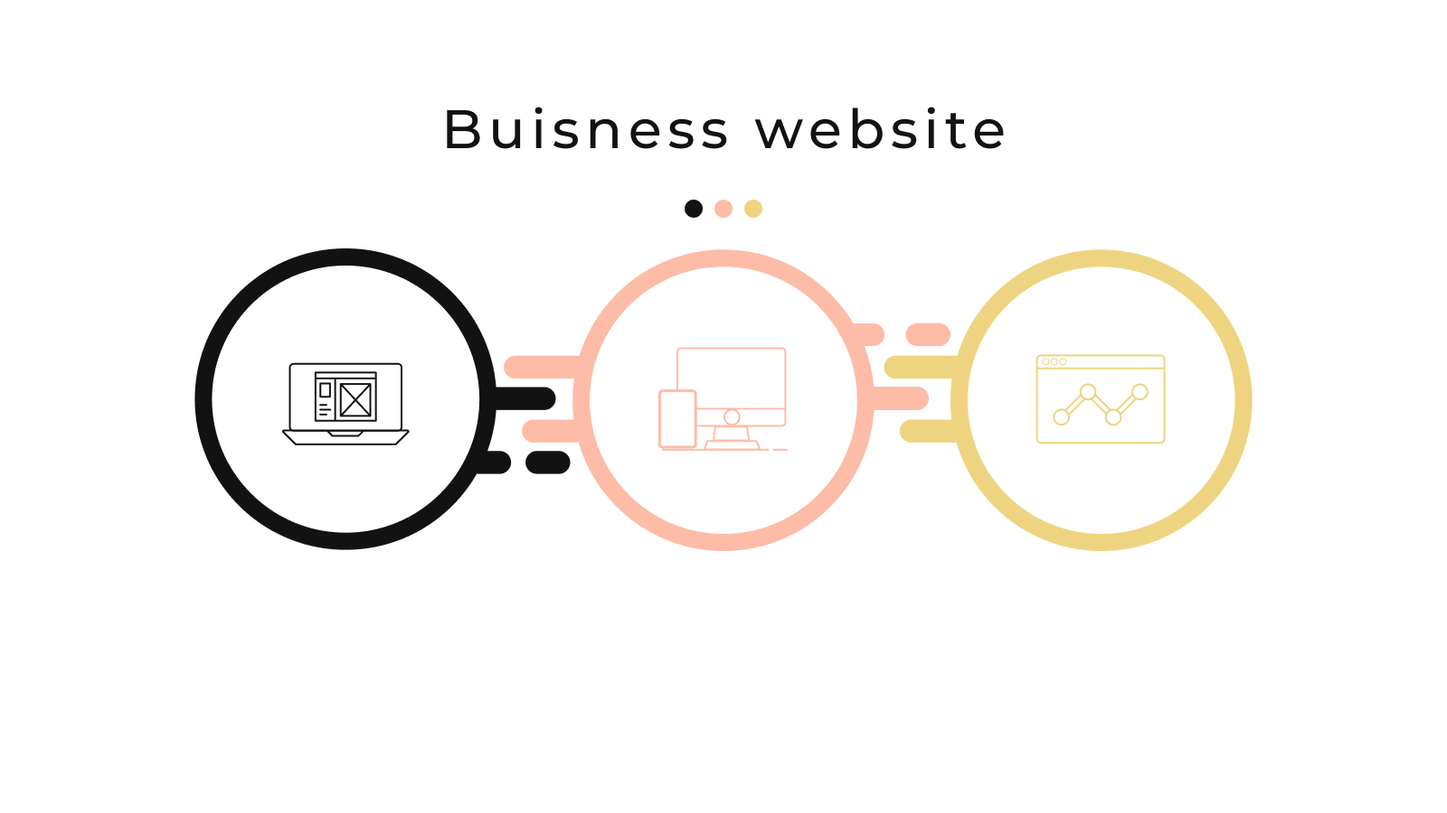
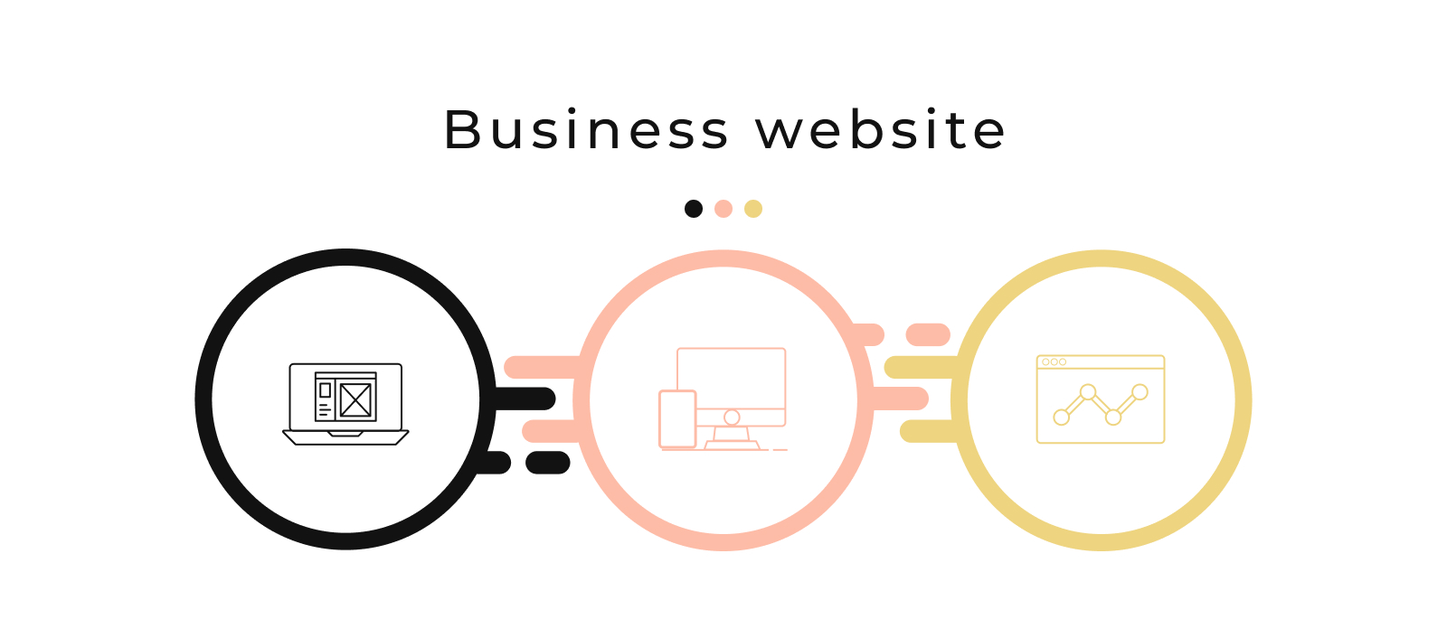
fix images

diff --git a/business.html b/business.html
@@ -270,90 +270,64 @@
               </g>
             </svg>
           </div>
+          
           <div class="business-heroimage__mobile">
+            
             <svg width="375" height="600" viewBox="0 0 375 600" fill="none" xmlns="http://www.w3.org/2000/svg">
-              <rect width="1205.67" height="600" transform="translate(-415)" fill="white" />
-              <path class="bh-text"
-                d="M77.0474 58.3815C78.0234 58.6535 78.7914 59.1495 79.3514 59.8695C79.9114 60.5735 80.1914 61.4695 80.1914 62.5575C80.1914 64.0135 79.6394 65.1335 78.5354 65.9175C77.4474 66.7015 75.8554 67.0935 73.7594 67.0935H65.7434V50.2935H73.2794C75.1994 50.2935 76.6794 50.6775 77.7194 51.4455C78.7754 52.2135 79.3034 53.2775 79.3034 54.6375C79.3034 55.5175 79.0954 56.2775 78.6794 56.9175C78.2794 57.5575 77.7354 58.0455 77.0474 58.3815ZM68.1434 52.2375V57.6135H73.0634C74.2954 57.6135 75.2394 57.3895 75.8954 56.9415C76.5674 56.4775 76.9034 55.8055 76.9034 54.9255C76.9034 54.0455 76.5674 53.3815 75.8954 52.9335C75.2394 52.4695 74.2954 52.2375 73.0634 52.2375H68.1434ZM73.6634 65.1495C75.0234 65.1495 76.0474 64.9255 76.7354 64.4775C77.4234 64.0295 77.7674 63.3255 77.7674 62.3655C77.7674 60.4935 76.3994 59.5575 73.6634 59.5575H68.1434V65.1495H73.6634ZM98.0675 54.3735V67.0935H95.8835V65.1735C95.4195 65.8295 94.8035 66.3415 94.0355 66.7095C93.2835 67.0615 92.4595 67.2375 91.5635 67.2375C89.8675 67.2375 88.5315 66.7735 87.5555 65.8455C86.5795 64.9015 86.0915 63.5175 86.0915 61.6935V54.3735H88.3955V61.4295C88.3955 62.6615 88.6915 63.5975 89.2835 64.2375C89.8755 64.8615 90.7235 65.1735 91.8275 65.1735C93.0435 65.1735 94.0035 64.8055 94.7075 64.0695C95.4115 63.3335 95.7635 62.2935 95.7635 60.9495V54.3735H98.0675ZM105.094 54.3735H107.398V67.0935H105.094V54.3735ZM106.246 51.9255C105.798 51.9255 105.422 51.7815 105.118 51.4935C104.83 51.2055 104.686 50.8535 104.686 50.4375C104.686 50.0215 104.83 49.6695 105.118 49.3815C105.422 49.0775 105.798 48.9255 106.246 48.9255C106.694 48.9255 107.062 49.0695 107.35 49.3575C107.654 49.6295 107.806 49.9735 107.806 50.3895C107.806 50.8215 107.654 51.1895 107.35 51.4935C107.062 51.7815 106.694 51.9255 106.246 51.9255ZM118.085 67.2375C117.045 67.2375 116.045 67.1015 115.085 66.8295C114.125 66.5415 113.373 66.1815 112.829 65.7495L113.789 63.9255C114.349 64.3255 115.029 64.6455 115.829 64.8855C116.629 65.1255 117.437 65.2455 118.253 65.2455C120.269 65.2455 121.277 64.6695 121.277 63.5175C121.277 63.1335 121.141 62.8295 120.869 62.6055C120.597 62.3815 120.253 62.2215 119.837 62.1255C119.437 62.0135 118.861 61.8935 118.109 61.7655C117.085 61.6055 116.245 61.4215 115.589 61.2135C114.949 61.0055 114.397 60.6535 113.933 60.1575C113.469 59.6615 113.237 58.9655 113.237 58.0695C113.237 56.9175 113.717 55.9975 114.677 55.3095C115.637 54.6055 116.925 54.2535 118.541 54.2535C119.389 54.2535 120.237 54.3575 121.085 54.5655C121.933 54.7735 122.629 55.0535 123.173 55.4055L122.189 57.2295C121.149 56.5575 119.925 56.2215 118.517 56.2215C117.541 56.2215 116.797 56.3815 116.285 56.7015C115.773 57.0215 115.517 57.4455 115.517 57.9735C115.517 58.3895 115.661 58.7175 115.949 58.9575C116.237 59.1975 116.589 59.3735 117.005 59.4855C117.437 59.5975 118.037 59.7255 118.805 59.8695C119.829 60.0455 120.653 60.2375 121.277 60.4455C121.917 60.6375 122.461 60.9735 122.909 61.4535C123.357 61.9335 123.581 62.6055 123.581 63.4695C123.581 64.6215 123.085 65.5415 122.093 66.2295C121.117 66.9015 119.781 67.2375 118.085 67.2375ZM135.892 54.2535C137.508 54.2535 138.788 54.7255 139.732 55.6695C140.692 56.5975 141.172 57.9655 141.172 59.7735V67.0935H138.868V60.0375C138.868 58.8055 138.572 57.8775 137.98 57.2535C137.388 56.6295 136.54 56.3175 135.436 56.3175C134.188 56.3175 133.204 56.6855 132.484 57.4215C131.764 58.1415 131.404 59.1815 131.404 60.5415V67.0935H129.1V54.3735H131.308V56.2935C131.772 55.6375 132.396 55.1335 133.18 54.7815C133.98 54.4295 134.884 54.2535 135.892 54.2535ZM159.642 60.8055C159.642 60.9815 159.626 61.2135 159.594 61.5015H149.274C149.418 62.6215 149.906 63.5255 150.738 64.2135C151.586 64.8855 152.634 65.2215 153.882 65.2215C155.402 65.2215 156.626 64.7095 157.554 63.6855L158.826 65.1735C158.25 65.8455 157.53 66.3575 156.666 66.7095C155.818 67.0615 154.866 67.2375 153.81 67.2375C152.466 67.2375 151.274 66.9655 150.234 66.4215C149.194 65.8615 148.386 65.0855 147.81 64.0935C147.25 63.1015 146.97 61.9815 146.97 60.7335C146.97 59.5015 147.242 58.3895 147.786 57.3975C148.346 56.4055 149.106 55.6375 150.066 55.0935C151.042 54.5335 152.138 54.2535 153.354 54.2535C154.57 54.2535 155.65 54.5335 156.594 55.0935C157.554 55.6375 158.298 56.4055 158.826 57.3975C159.37 58.3895 159.642 59.5255 159.642 60.8055ZM153.354 56.1975C152.25 56.1975 151.322 56.5335 150.57 57.2055C149.834 57.8775 149.402 58.7575 149.274 59.8455H157.434C157.306 58.7735 156.866 57.9015 156.114 57.2295C155.378 56.5415 154.458 56.1975 153.354 56.1975ZM169.13 67.2375C168.09 67.2375 167.09 67.1015 166.13 66.8295C165.17 66.5415 164.418 66.1815 163.874 65.7495L164.834 63.9255C165.394 64.3255 166.074 64.6455 166.874 64.8855C167.674 65.1255 168.482 65.2455 169.298 65.2455C171.314 65.2455 172.322 64.6695 172.322 63.5175C172.322 63.1335 172.186 62.8295 171.914 62.6055C171.642 62.3815 171.298 62.2215 170.882 62.1255C170.482 62.0135 169.906 61.8935 169.154 61.7655C168.13 61.6055 167.29 61.4215 166.634 61.2135C165.994 61.0055 165.442 60.6535 164.978 60.1575C164.514 59.6615 164.282 58.9655 164.282 58.0695C164.282 56.9175 164.762 55.9975 165.722 55.3095C166.682 54.6055 167.97 54.2535 169.586 54.2535C170.434 54.2535 171.282 54.3575 172.13 54.5655C172.978 54.7735 173.674 55.0535 174.218 55.4055L173.234 57.2295C172.194 56.5575 170.97 56.2215 169.562 56.2215C168.586 56.2215 167.842 56.3815 167.33 56.7015C166.818 57.0215 166.562 57.4455 166.562 57.9735C166.562 58.3895 166.706 58.7175 166.994 58.9575C167.282 59.1975 167.634 59.3735 168.05 59.4855C168.482 59.5975 169.082 59.7255 169.85 59.8695C170.874 60.0455 171.698 60.2375 172.322 60.4455C172.962 60.6375 173.506 60.9735 173.954 61.4535C174.402 61.9335 174.626 62.6055 174.626 63.4695C174.626 64.6215 174.13 65.5415 173.138 66.2295C172.162 66.9015 170.826 67.2375 169.13 67.2375ZM183.793 67.2375C182.753 67.2375 181.753 67.1015 180.793 66.8295C179.833 66.5415 179.081 66.1815 178.537 65.7495L179.497 63.9255C180.057 64.3255 180.737 64.6455 181.537 64.8855C182.337 65.1255 183.145 65.2455 183.961 65.2455C185.977 65.2455 186.985 64.6695 186.985 63.5175C186.985 63.1335 186.849 62.8295 186.577 62.6055C186.305 62.3815 185.961 62.2215 185.545 62.1255C185.145 62.0135 184.569 61.8935 183.817 61.7655C182.793 61.6055 181.953 61.4215 181.297 61.2135C180.657 61.0055 180.105 60.6535 179.641 60.1575C179.177 59.6615 178.945 58.9655 178.945 58.0695C178.945 56.9175 179.425 55.9975 180.385 55.3095C181.345 54.6055 182.633 54.2535 184.249 54.2535C185.097 54.2535 185.945 54.3575 186.793 54.5655C187.641 54.7735 188.337 55.0535 188.881 55.4055L187.897 57.2295C186.857 56.5575 185.633 56.2215 184.225 56.2215C183.249 56.2215 182.505 56.3815 181.993 56.7015C181.481 57.0215 181.225 57.4455 181.225 57.9735C181.225 58.3895 181.369 58.7175 181.657 58.9575C181.945 59.1975 182.297 59.3735 182.713 59.4855C183.145 59.5975 183.745 59.7255 184.513 59.8695C185.537 60.0455 186.361 60.2375 186.985 60.4455C187.625 60.6375 188.169 60.9735 188.617 61.4535C189.065 61.9335 189.289 62.6055 189.289 63.4695C189.289 64.6215 188.793 65.5415 187.801 66.2295C186.825 66.9015 185.489 67.2375 183.793 67.2375ZM223.142 54.3735L218.39 67.0935H216.182L212.51 57.4455L208.79 67.0935H206.582L201.854 54.3735H204.038L207.734 64.5015L211.574 54.3735L213.518 54.3735L217.286 64.5495L221.078 54.3735H223.142ZM239.264 60.8055C239.264 60.9815 239.248 61.2135 239.216 61.5015H228.896C229.04 62.6215 229.528 63.5255 230.36 64.2135C231.208 64.8855 232.256 65.2215 233.504 65.2215C235.024 65.2215 236.248 64.7095 237.176 63.6855L238.448 65.1735C237.872 65.8455 237.152 66.3575 236.288 66.7095C235.44 67.0615 234.488 67.2375 233.432 67.2375C232.088 67.2375 230.896 66.9655 229.856 66.4215C228.816 65.8615 228.008 65.0855 227.432 64.0935C226.872 63.1015 226.592 61.9815 226.592 60.7335C226.592 59.5015 226.864 58.3895 227.408 57.3975C227.968 56.4055 228.728 55.6375 229.688 55.0935C230.664 54.5335 231.76 54.2535 232.976 54.2535C234.192 54.2535 235.272 54.5335 236.216 55.0935C237.176 55.6375 237.92 56.4055 238.448 57.3975C238.992 58.3895 239.264 59.5255 239.264 60.8055ZM232.976 56.1975C231.872 56.1975 230.944 56.5335 230.192 57.2055C229.456 57.8775 229.024 58.7575 228.896 59.8455H237.056C236.928 58.7735 236.488 57.9015 235.736 57.2295C235 56.5415 234.08 56.1975 232.976 56.1975ZM251.848 54.2535C253.08 54.2535 254.184 54.5255 255.16 55.0695C256.136 55.6135 256.896 56.3735 257.44 57.3495C258 58.3255 258.28 59.4535 258.28 60.7335C258.28 62.0135 258 63.1495 257.44 64.1415C256.896 65.1175 256.136 65.8775 255.16 66.4215C254.184 66.9655 253.08 67.2375 251.848 67.2375C250.904 67.2375 250.04 67.0535 249.256 66.6855C248.472 66.3175 247.824 65.7815 247.312 65.0775V67.0935H245.104V49.2855H247.408V56.2935C247.92 55.6215 248.56 55.1175 249.328 54.7815C250.096 54.4295 250.936 54.2535 251.848 54.2535ZM251.656 65.2215C252.472 65.2215 253.2 65.0375 253.84 64.6695C254.496 64.2855 255.008 63.7575 255.376 63.0855C255.76 62.3975 255.952 61.6135 255.952 60.7335C255.952 59.8535 255.76 59.0775 255.376 58.4055C255.008 57.7175 254.496 57.1895 253.84 56.8215C253.2 56.4535 252.472 56.2695 251.656 56.2695C250.856 56.2695 250.128 56.4535 249.472 56.8215C248.816 57.1895 248.304 57.7175 247.936 58.4055C247.568 59.0775 247.384 59.8535 247.384 60.7335C247.384 61.6135 247.568 62.3975 247.936 63.0855C248.304 63.7575 248.816 64.2855 249.472 64.6695C250.128 65.0375 250.856 65.2215 251.656 65.2215ZM267.751 67.2375C266.711 67.2375 265.711 67.1015 264.751 66.8295C263.791 66.5415 263.039 66.1815 262.495 65.7495L263.455 63.9255C264.015 64.3255 264.695 64.6455 265.495 64.8855C266.295 65.1255 267.103 65.2455 267.919 65.2455C269.935 65.2455 270.943 64.6695 270.943 63.5175C270.943 63.1335 270.807 62.8295 270.535 62.6055C270.263 62.3815 269.919 62.2215 269.503 62.1255C269.103 62.0135 268.527 61.8935 267.775 61.7655C266.751 61.6055 265.911 61.4215 265.255 61.2135C264.615 61.0055 264.063 60.6535 263.599 60.1575C263.135 59.6615 262.903 58.9655 262.903 58.0695C262.903 56.9175 263.383 55.9975 264.343 55.3095C265.303 54.6055 266.591 54.2535 268.207 54.2535C269.055 54.2535 269.903 54.3575 270.751 54.5655C271.599 54.7735 272.295 55.0535 272.839 55.4055L271.855 57.2295C270.815 56.5575 269.591 56.2215 268.183 56.2215C267.207 56.2215 266.463 56.3815 265.951 56.7015C265.439 57.0215 265.183 57.4455 265.183 57.9735C265.183 58.3895 265.327 58.7175 265.615 58.9575C265.903 59.1975 266.255 59.3735 266.671 59.4855C267.103 59.5975 267.703 59.7255 268.471 59.8695C269.495 60.0455 270.319 60.2375 270.943 60.4455C271.583 60.6375 272.127 60.9735 272.575 61.4535C273.023 61.9335 273.247 62.6055 273.247 63.4695C273.247 64.6215 272.751 65.5415 271.759 66.2295C270.783 66.9015 269.447 67.2375 267.751 67.2375ZM278.767 54.3735H281.071V67.0935H278.767V54.3735ZM279.919 51.9255C279.471 51.9255 279.095 51.7815 278.791 51.4935C278.503 51.2055 278.359 50.8535 278.359 50.4375C278.359 50.0215 278.503 49.6695 278.791 49.3815C279.095 49.0775 279.471 48.9255 279.919 48.9255C280.367 48.9255 280.735 49.0695 281.023 49.3575C281.327 49.6295 281.479 49.9735 281.479 50.3895C281.479 50.8215 281.327 51.1895 281.023 51.4935C280.735 51.7815 280.367 51.9255 279.919 51.9255ZM295.262 66.3495C294.926 66.6375 294.51 66.8615 294.014 67.0215C293.518 67.1655 293.006 67.2375 292.478 67.2375C291.198 67.2375 290.206 66.8935 289.502 66.2055C288.798 65.5175 288.446 64.5335 288.446 63.2535V56.2695H286.286V54.3735H288.446V51.5895H290.75V54.3735H294.398V56.2695H290.75V63.1575C290.75 63.8455 290.918 64.3735 291.254 64.7415C291.606 65.1095 292.102 65.2935 292.742 65.2935C293.446 65.2935 294.046 65.0935 294.542 64.6935L295.262 66.3495ZM311.761 60.8055C311.761 60.9815 311.745 61.2135 311.713 61.5015H301.393C301.537 62.6215 302.025 63.5255 302.857 64.2135C303.705 64.8855 304.753 65.2215 306.001 65.2215C307.521 65.2215 308.745 64.7095 309.673 63.6855L310.945 65.1735C310.369 65.8455 309.649 66.3575 308.785 66.7095C307.937 67.0615 306.985 67.2375 305.929 67.2375C304.585 67.2375 303.393 66.9655 302.353 66.4215C301.313 65.8615 300.505 65.0855 299.929 64.0935C299.369 63.1015 299.089 61.9815 299.089 60.7335C299.089 59.5015 299.361 58.3895 299.905 57.3975C300.465 56.4055 301.225 55.6375 302.185 55.0935C303.161 54.5335 304.257 54.2535 305.473 54.2535C306.689 54.2535 307.769 54.5335 308.713 55.0935C309.673 55.6375 310.417 56.4055 310.945 57.3975C311.489 58.3895 311.761 59.5255 311.761 60.8055ZM305.473 56.1975C304.369 56.1975 303.441 56.5335 302.689 57.2055C301.953 57.8775 301.521 58.7575 301.393 59.8455H309.553C309.425 58.7735 308.985 57.9015 308.233 57.2295C307.497 56.5415 306.577 56.1975 305.473 56.1975Z"
-                fill="#121212" />
-              <circle class="bh-circle1" cx="162.965" cy="97.5354" r="7.53541" fill="#121212" />
-              <circle class="bh-circle2" cx="187.832" cy="97.5354" r="7.53541" fill="#FDBCA7" />
-              <circle class="bh-circle3" cx="212.699" cy="97.5354" r="7.53541" fill="#EED480" />
+              <rect width="1205.67" height="600" transform="translate(-415)" fill="white"/>
+              <path class="bh-text" d="M65.7786 67.0935V50.2935H73.3146C75.2506 50.2935 76.7386 50.6855 77.7786 51.4695C78.8186 52.2375 79.3386 53.2935 79.3386 54.6375C79.3386 55.5495 79.1306 56.3175 78.7146 56.9415C78.3146 57.5655 77.7706 58.0455 77.0826 58.3815C76.3946 58.7175 75.6506 58.8855 74.8506 58.8855L75.2826 58.1655C76.2426 58.1655 77.0906 58.3335 77.8266 58.6695C78.5626 59.0055 79.1466 59.5015 79.5786 60.1575C80.0106 60.7975 80.2266 61.5975 80.2266 62.5575C80.2266 63.9975 79.6826 65.1175 78.5946 65.9175C77.5226 66.7015 75.9226 67.0935 73.7946 67.0935H65.7786ZM68.1786 65.1495H73.6986C75.0266 65.1495 76.0426 64.9255 76.7466 64.4775C77.4506 64.0295 77.8026 63.3255 77.8026 62.3655C77.8026 61.3895 77.4506 60.6775 76.7466 60.2295C76.0426 59.7815 75.0266 59.5575 73.6986 59.5575H67.9626V57.6135H73.0986C74.3146 57.6135 75.2586 57.3895 75.9306 56.9415C76.6026 56.4935 76.9386 55.8215 76.9386 54.9255C76.9386 54.0295 76.6026 53.3575 75.9306 52.9095C75.2586 52.4615 74.3146 52.2375 73.0986 52.2375H68.1786V65.1495ZM91.5987 67.2375C90.5107 67.2375 89.5507 67.0375 88.7187 66.6375C87.9027 66.2375 87.2627 65.6295 86.7987 64.8135C86.3507 63.9815 86.1267 62.9415 86.1267 61.6935V54.3735H88.4307V61.4295C88.4307 62.6775 88.7267 63.6135 89.3187 64.2375C89.9267 64.8615 90.7747 65.1735 91.8627 65.1735C92.6627 65.1735 93.3587 65.0135 93.9507 64.6935C94.5427 64.3575 94.9987 63.8775 95.3187 63.2535C95.6387 62.6135 95.7987 61.8455 95.7987 60.9495V54.3735H98.1027V67.0935H95.9187V63.6615L96.2787 64.5735C95.8627 65.4215 95.2387 66.0775 94.4067 66.5415C93.5747 67.0055 92.6387 67.2375 91.5987 67.2375ZM108.777 67.2375C107.721 67.2375 106.713 67.0935 105.753 66.8055C104.809 66.5175 104.065 66.1655 103.521 65.7495L104.481 63.9255C105.025 64.2935 105.697 64.6055 106.497 64.8615C107.297 65.1175 108.113 65.2455 108.945 65.2455C110.017 65.2455 110.785 65.0935 111.249 64.7895C111.729 64.4855 111.969 64.0615 111.969 63.5175C111.969 63.1175 111.825 62.8055 111.537 62.5815C111.249 62.3575 110.865 62.1895 110.385 62.0775C109.921 61.9655 109.401 61.8695 108.825 61.7895C108.249 61.6935 107.673 61.5815 107.097 61.4535C106.521 61.3095 105.993 61.1175 105.513 60.8775C105.033 60.6215 104.649 60.2775 104.361 59.8455C104.073 59.3975 103.929 58.8055 103.929 58.0695C103.929 57.3015 104.145 56.6295 104.577 56.0535C105.009 55.4775 105.617 55.0375 106.401 54.7335C107.201 54.4135 108.145 54.2535 109.233 54.2535C110.065 54.2535 110.905 54.3575 111.753 54.5655C112.617 54.7575 113.321 55.0375 113.865 55.4055L112.881 57.2295C112.305 56.8455 111.705 56.5815 111.081 56.4375C110.457 56.2935 109.833 56.2215 109.209 56.2215C108.201 56.2215 107.449 56.3895 106.953 56.7255C106.457 57.0455 106.209 57.4615 106.209 57.9735C106.209 58.4055 106.353 58.7415 106.641 58.9815C106.945 59.2055 107.329 59.3815 107.793 59.5095C108.273 59.6375 108.801 59.7495 109.377 59.8455C109.953 59.9255 110.529 60.0375 111.105 60.1815C111.681 60.3095 112.201 60.4935 112.665 60.7335C113.145 60.9735 113.529 61.3095 113.817 61.7415C114.121 62.1735 114.273 62.7495 114.273 63.4695C114.273 64.2375 114.049 64.9015 113.601 65.4615C113.153 66.0215 112.521 66.4615 111.705 66.7815C110.889 67.0855 109.913 67.2375 108.777 67.2375ZM119.792 67.0935V54.3735H122.096V67.0935H119.792ZM120.944 51.9255C120.496 51.9255 120.12 51.7815 119.816 51.4935C119.528 51.2055 119.384 50.8535 119.384 50.4375C119.384 50.0055 119.528 49.6455 119.816 49.3575C120.12 49.0695 120.496 48.9255 120.944 48.9255C121.392 48.9255 121.76 49.0695 122.048 49.3575C122.352 49.6295 122.504 49.9735 122.504 50.3895C122.504 50.8215 122.36 51.1895 122.072 51.4935C121.784 51.7815 121.408 51.9255 120.944 51.9255ZM135.927 54.2535C136.967 54.2535 137.879 54.4535 138.663 54.8535C139.463 55.2535 140.087 55.8615 140.535 56.6775C140.983 57.4935 141.207 58.5255 141.207 59.7735V67.0935H138.903V60.0375C138.903 58.8055 138.599 57.8775 137.991 57.2535C137.399 56.6295 136.559 56.3175 135.471 56.3175C134.655 56.3175 133.943 56.4775 133.335 56.7975C132.727 57.1175 132.255 57.5895 131.919 58.2135C131.599 58.8375 131.439 59.6135 131.439 60.5415V67.0935H129.135V54.3735H131.343V57.8055L130.983 56.8935C131.399 56.0615 132.039 55.4135 132.903 54.9495C133.767 54.4855 134.775 54.2535 135.927 54.2535ZM153.775 67.2375C152.415 67.2375 151.215 66.9575 150.175 66.3975C149.151 65.8375 148.351 65.0695 147.775 64.0935C147.215 63.1175 146.935 61.9975 146.935 60.7335C146.935 59.4695 147.207 58.3495 147.751 57.3735C148.311 56.3975 149.071 55.6375 150.031 55.0935C151.007 54.5335 152.103 54.2535 153.319 54.2535C154.551 54.2535 155.639 54.5255 156.583 55.0695C157.527 55.6135 158.263 56.3815 158.791 57.3735C159.335 58.3495 159.607 59.4935 159.607 60.8055C159.607 60.9015 159.599 61.0135 159.583 61.1415C159.583 61.2695 159.575 61.3895 159.559 61.5015H148.735V59.8455H158.359L157.423 60.4215C157.439 59.6055 157.271 58.8775 156.919 58.2375C156.567 57.5975 156.079 57.1015 155.455 56.7495C154.847 56.3815 154.135 56.1975 153.319 56.1975C152.519 56.1975 151.807 56.3815 151.183 56.7495C150.559 57.1015 150.071 57.6055 149.719 58.2615C149.367 58.9015 149.191 59.6375 149.191 60.4695V60.8535C149.191 61.7015 149.383 62.4615 149.767 63.1335C150.167 63.7895 150.719 64.3015 151.423 64.6695C152.127 65.0375 152.935 65.2215 153.847 65.2215C154.599 65.2215 155.279 65.0935 155.887 64.8375C156.511 64.5815 157.055 64.1975 157.519 63.6855L158.791 65.1735C158.215 65.8455 157.495 66.3575 156.631 66.7095C155.783 67.0615 154.831 67.2375 153.775 67.2375ZM169.095 67.2375C168.039 67.2375 167.031 67.0935 166.071 66.8055C165.127 66.5175 164.383 66.1655 163.839 65.7495L164.799 63.9255C165.343 64.2935 166.015 64.6055 166.815 64.8615C167.615 65.1175 168.431 65.2455 169.263 65.2455C170.335 65.2455 171.103 65.0935 171.567 64.7895C172.047 64.4855 172.287 64.0615 172.287 63.5175C172.287 63.1175 172.143 62.8055 171.855 62.5815C171.567 62.3575 171.183 62.1895 170.703 62.0775C170.239 61.9655 169.719 61.8695 169.143 61.7895C168.567 61.6935 167.991 61.5815 167.415 61.4535C166.839 61.3095 166.311 61.1175 165.831 60.8775C165.351 60.6215 164.967 60.2775 164.679 59.8455C164.391 59.3975 164.247 58.8055 164.247 58.0695C164.247 57.3015 164.463 56.6295 164.895 56.0535C165.327 55.4775 165.935 55.0375 166.719 54.7335C167.519 54.4135 168.463 54.2535 169.551 54.2535C170.383 54.2535 171.223 54.3575 172.071 54.5655C172.935 54.7575 173.639 55.0375 174.183 55.4055L173.199 57.2295C172.623 56.8455 172.023 56.5815 171.399 56.4375C170.775 56.2935 170.151 56.2215 169.527 56.2215C168.519 56.2215 167.767 56.3895 167.271 56.7255C166.775 57.0455 166.527 57.4615 166.527 57.9735C166.527 58.4055 166.671 58.7415 166.959 58.9815C167.263 59.2055 167.647 59.3815 168.111 59.5095C168.591 59.6375 169.119 59.7495 169.695 59.8455C170.271 59.9255 170.847 60.0375 171.423 60.1815C171.999 60.3095 172.519 60.4935 172.983 60.7335C173.463 60.9735 173.847 61.3095 174.135 61.7415C174.439 62.1735 174.591 62.7495 174.591 63.4695C174.591 64.2375 174.367 64.9015 173.919 65.4615C173.471 66.0215 172.839 66.4615 172.023 66.7815C171.207 67.0855 170.231 67.2375 169.095 67.2375ZM183.758 67.2375C182.702 67.2375 181.694 67.0935 180.734 66.8055C179.79 66.5175 179.046 66.1655 178.502 65.7495L179.462 63.9255C180.006 64.2935 180.678 64.6055 181.478 64.8615C182.278 65.1175 183.094 65.2455 183.926 65.2455C184.998 65.2455 185.766 65.0935 186.23 64.7895C186.71 64.4855 186.95 64.0615 186.95 63.5175C186.95 63.1175 186.806 62.8055 186.518 62.5815C186.23 62.3575 185.846 62.1895 185.366 62.0775C184.902 61.9655 184.382 61.8695 183.806 61.7895C183.23 61.6935 182.654 61.5815 182.078 61.4535C181.502 61.3095 180.974 61.1175 180.494 60.8775C180.014 60.6215 179.63 60.2775 179.342 59.8455C179.054 59.3975 178.91 58.8055 178.91 58.0695C178.91 57.3015 179.126 56.6295 179.558 56.0535C179.99 55.4775 180.598 55.0375 181.382 54.7335C182.182 54.4135 183.126 54.2535 184.214 54.2535C185.046 54.2535 185.886 54.3575 186.734 54.5655C187.598 54.7575 188.302 55.0375 188.846 55.4055L187.862 57.2295C187.286 56.8455 186.686 56.5815 186.062 56.4375C185.438 56.2935 184.814 56.2215 184.19 56.2215C183.182 56.2215 182.43 56.3895 181.934 56.7255C181.438 57.0455 181.19 57.4615 181.19 57.9735C181.19 58.4055 181.334 58.7415 181.622 58.9815C181.926 59.2055 182.31 59.3815 182.774 59.5095C183.254 59.6375 183.782 59.7495 184.358 59.8455C184.934 59.9255 185.51 60.0375 186.086 60.1815C186.662 60.3095 187.182 60.4935 187.646 60.7335C188.126 60.9735 188.51 61.3095 188.798 61.7415C189.102 62.1735 189.254 62.7495 189.254 63.4695C189.254 64.2375 189.03 64.9015 188.582 65.4615C188.134 66.0215 187.502 66.4615 186.686 66.7815C185.87 67.0855 184.894 67.2375 183.758 67.2375ZM206.547 67.0935L201.819 54.3735H204.003L208.203 65.8935H207.171L211.539 54.3735L213.483 54.3735L217.755 65.8935H216.747L221.043 54.3735H223.107L218.355 67.0935H216.147L212.139 56.5815H212.811L208.755 67.0935H206.547ZM233.397 67.2375C232.037 67.2375 230.837 66.9575 229.797 66.3975C228.773 65.8375 227.973 65.0695 227.397 64.0935C226.837 63.1175 226.557 61.9975 226.557 60.7335C226.557 59.4695 226.829 58.3495 227.373 57.3735C227.933 56.3975 228.693 55.6375 229.653 55.0935C230.629 54.5335 231.725 54.2535 232.941 54.2535C234.173 54.2535 235.261 54.5255 236.205 55.0695C237.149 55.6135 237.885 56.3815 238.413 57.3735C238.957 58.3495 239.229 59.4935 239.229 60.8055C239.229 60.9015 239.221 61.0135 239.205 61.1415C239.205 61.2695 239.197 61.3895 239.181 61.5015H228.357V59.8455H237.981L237.045 60.4215C237.061 59.6055 236.893 58.8775 236.541 58.2375C236.189 57.5975 235.701 57.1015 235.077 56.7495C234.469 56.3815 233.757 56.1975 232.941 56.1975C232.141 56.1975 231.429 56.3815 230.805 56.7495C230.181 57.1015 229.693 57.6055 229.341 58.2615C228.989 58.9015 228.813 59.6375 228.813 60.4695V60.8535C228.813 61.7015 229.005 62.4615 229.389 63.1335C229.789 63.7895 230.341 64.3015 231.045 64.6695C231.749 65.0375 232.557 65.2215 233.469 65.2215C234.221 65.2215 234.901 65.0935 235.509 64.8375C236.133 64.5815 236.677 64.1975 237.141 63.6855L238.413 65.1735C237.837 65.8455 237.117 66.3575 236.253 66.7095C235.405 67.0615 234.453 67.2375 233.397 67.2375ZM251.813 67.2375C250.725 67.2375 249.741 66.9975 248.861 66.5175C247.997 66.0215 247.309 65.2935 246.797 64.3335C246.301 63.3735 246.053 62.1735 246.053 60.7335C246.053 59.2935 246.309 58.0935 246.821 57.1335C247.349 56.1735 248.045 55.4535 248.909 54.9735C249.789 54.4935 250.757 54.2535 251.813 54.2535C253.061 54.2535 254.165 54.5255 255.125 55.0695C256.085 55.6135 256.845 56.3735 257.405 57.3495C257.965 58.3095 258.245 59.4375 258.245 60.7335C258.245 62.0295 257.965 63.1655 257.405 64.1415C256.845 65.1175 256.085 65.8775 255.125 66.4215C254.165 66.9655 253.061 67.2375 251.813 67.2375ZM245.069 67.0935V49.2855H247.373V57.7575L247.133 60.7095L247.277 63.6615V67.0935H245.069ZM251.621 65.2215C252.437 65.2215 253.165 65.0375 253.805 64.6695C254.461 64.3015 254.973 63.7815 255.341 63.1095C255.725 62.4215 255.917 61.6295 255.917 60.7335C255.917 59.8215 255.725 59.0375 255.341 58.3815C254.973 57.7095 254.461 57.1895 253.805 56.8215C253.165 56.4535 252.437 56.2695 251.621 56.2695C250.821 56.2695 250.093 56.4535 249.437 56.8215C248.797 57.1895 248.285 57.7095 247.901 58.3815C247.533 59.0375 247.349 59.8215 247.349 60.7335C247.349 61.6295 247.533 62.4215 247.901 63.1095C248.285 63.7815 248.797 64.3015 249.437 64.6695C250.093 65.0375 250.821 65.2215 251.621 65.2215ZM267.716 67.2375C266.66 67.2375 265.652 67.0935 264.692 66.8055C263.748 66.5175 263.004 66.1655 262.46 65.7495L263.42 63.9255C263.964 64.2935 264.636 64.6055 265.436 64.8615C266.236 65.1175 267.052 65.2455 267.884 65.2455C268.956 65.2455 269.724 65.0935 270.188 64.7895C270.668 64.4855 270.908 64.0615 270.908 63.5175C270.908 63.1175 270.764 62.8055 270.476 62.5815C270.188 62.3575 269.804 62.1895 269.324 62.0775C268.86 61.9655 268.34 61.8695 267.764 61.7895C267.188 61.6935 266.612 61.5815 266.036 61.4535C265.46 61.3095 264.932 61.1175 264.452 60.8775C263.972 60.6215 263.588 60.2775 263.3 59.8455C263.012 59.3975 262.868 58.8055 262.868 58.0695C262.868 57.3015 263.084 56.6295 263.516 56.0535C263.948 55.4775 264.556 55.0375 265.34 54.7335C266.14 54.4135 267.084 54.2535 268.172 54.2535C269.004 54.2535 269.844 54.3575 270.692 54.5655C271.556 54.7575 272.26 55.0375 272.804 55.4055L271.82 57.2295C271.244 56.8455 270.644 56.5815 270.02 56.4375C269.396 56.2935 268.772 56.2215 268.148 56.2215C267.14 56.2215 266.388 56.3895 265.892 56.7255C265.396 57.0455 265.148 57.4615 265.148 57.9735C265.148 58.4055 265.292 58.7415 265.58 58.9815C265.884 59.2055 266.268 59.3815 266.732 59.5095C267.212 59.6375 267.74 59.7495 268.316 59.8455C268.892 59.9255 269.468 60.0375 270.044 60.1815C270.62 60.3095 271.14 60.4935 271.604 60.7335C272.084 60.9735 272.468 61.3095 272.756 61.7415C273.06 62.1735 273.212 62.7495 273.212 63.4695C273.212 64.2375 272.988 64.9015 272.54 65.4615C272.092 66.0215 271.46 66.4615 270.644 66.7815C269.828 67.0855 268.852 67.2375 267.716 67.2375ZM278.731 67.0935V54.3735H281.035V67.0935H278.731ZM279.883 51.9255C279.435 51.9255 279.059 51.7815 278.755 51.4935C278.467 51.2055 278.323 50.8535 278.323 50.4375C278.323 50.0055 278.467 49.6455 278.755 49.3575C279.059 49.0695 279.435 48.9255 279.883 48.9255C280.331 48.9255 280.699 49.0695 280.987 49.3575C281.291 49.6295 281.443 49.9735 281.443 50.3895C281.443 50.8215 281.299 51.1895 281.011 51.4935C280.723 51.7815 280.347 51.9255 279.883 51.9255ZM292.442 67.2375C291.162 67.2375 290.17 66.8935 289.466 66.2055C288.762 65.5175 288.41 64.5335 288.41 63.2535V51.5895H290.714V63.1575C290.714 63.8455 290.882 64.3735 291.218 64.7415C291.57 65.1095 292.066 65.2935 292.706 65.2935C293.426 65.2935 294.026 65.0935 294.506 64.6935L295.226 66.3495C294.874 66.6535 294.45 66.8775 293.954 67.0215C293.474 67.1655 292.97 67.2375 292.442 67.2375ZM286.25 56.2695V54.3735H294.362V56.2695H286.25ZM305.894 67.2375C304.534 67.2375 303.334 66.9575 302.294 66.3975C301.27 65.8375 300.47 65.0695 299.894 64.0935C299.334 63.1175 299.054 61.9975 299.054 60.7335C299.054 59.4695 299.326 58.3495 299.87 57.3735C300.43 56.3975 301.19 55.6375 302.15 55.0935C303.126 54.5335 304.222 54.2535 305.438 54.2535C306.67 54.2535 307.758 54.5255 308.702 55.0695C309.646 55.6135 310.382 56.3815 310.91 57.3735C311.454 58.3495 311.726 59.4935 311.726 60.8055C311.726 60.9015 311.718 61.0135 311.702 61.1415C311.702 61.2695 311.694 61.3895 311.678 61.5015H300.854V59.8455H310.478L309.542 60.4215C309.558 59.6055 309.39 58.8775 309.038 58.2375C308.686 57.5975 308.198 57.1015 307.574 56.7495C306.966 56.3815 306.254 56.1975 305.438 56.1975C304.638 56.1975 303.926 56.3815 303.302 56.7495C302.678 57.1015 302.19 57.6055 301.838 58.2615C301.486 58.9015 301.31 59.6375 301.31 60.4695V60.8535C301.31 61.7015 301.502 62.4615 301.886 63.1335C302.286 63.7895 302.838 64.3015 303.542 64.6695C304.246 65.0375 305.054 65.2215 305.966 65.2215C306.718 65.2215 307.398 65.0935 308.006 64.8375C308.63 64.5815 309.174 64.1975 309.638 63.6855L310.91 65.1735C310.334 65.8455 309.614 66.3575 308.75 66.7095C307.902 67.0615 306.95 67.2375 305.894 67.2375Z" fill="#121212"/>
+              <circle class="bh-circle1" cx="162.965" cy="97.5354" r="7.53541" fill="#121212"/>
+              <circle class="bh-circle2" cx="187.832" cy="97.5354" r="7.53541" fill="#FDBCA7"/>
+              <circle class="bh-circle3" cx="212.699" cy="97.5354" r="7.53541" fill="#EED480"/>
 
               <g class="bh-box1">
-                <rect x="165.84" y="214.002" width="33.9664" height="10.409" rx="5.20452" fill="#121212" />
-                <rect x="159.266" y="243.038" width="20.2702" height="10.409" rx="5.20452" fill="#121212" />
-                <rect x="186.109" y="243.038" width="20.2702" height="10.409" rx="5.20452" fill="#121212" />
-                <circle cx="104.481" cy="219.481" r="61.3219" stroke="#121212" stroke-width="14.3173" />
-                <path d="M90.7852 207.406H118.177V229.318H90.7852V207.406Z" fill="white" />
-                <path d="M92.9688 212.352H97.3515V218.424H92.9688V212.352Z" fill="white" />
-                <path d="M115.672 227.098H102.234V212.633H115.672V220.287V227.098Z" fill="white" />
-                <path
-                  d="M91.3609 210.065H117.695M99.6837 228.971V210.065M90.7812 207.406H118.173V229.318H90.7812V207.406Z"
-                  stroke="#121212" stroke-width="1.50708" stroke-miterlimit="10" stroke-linecap="round"
-                  stroke-linejoin="round" />
-                <path
-                  d="M92.9141 222.099H95.707M92.9141 224.291H97.4656M92.9141 226.482H95.707M102.232 227.098L115.67 212.632M102.232 212.632L115.67 227.098M92.9639 212.352H97.3467V218.424H92.9639V212.352ZM115.67 227.098H102.232V212.632H115.67V220.287V227.098Z"
-                  stroke="#121212" stroke-width="1.50708" stroke-miterlimit="10" stroke-linecap="round"
-                  stroke-linejoin="round" />
-                <rect x="79.484" y="203.799" width="49.9903" height="29.7201" rx="3.01416" stroke="#121212"
-                  stroke-width="1.50708" />
-                <path
-                  d="M112.695 233.725L131.694 233.725C132.365 233.725 132.701 234.536 132.227 235.011L127.433 239.804C127.292 239.945 127.1 240.025 126.901 240.025H82.0537C81.8539 240.025 81.6622 239.945 81.5209 239.804L76.7278 235.011C76.2531 234.536 76.5893 233.725 77.2606 233.725L95.9856 233.725M112.695 233.725L110.45 235.969C110.309 236.11 110.117 236.19 109.917 236.19H98.763C98.5632 236.19 98.3715 236.11 98.2302 235.969L95.9856 233.725M112.695 233.725L95.9856 233.725"
-                  stroke="#121212" stroke-width="1.50708" stroke-linejoin="round" />
-              </g>
-
-              <g class="bh-box3">
-                <rect width="37.2534" height="10.409" rx="5.20452" transform="matrix(-1 0 0 1 87.25 447.21)"
-                  fill="#EED480" />
-                <rect width="31.775" height="10.409" rx="5.20452" transform="matrix(-1 0 0 1 88.8945 476.246)"
-                  fill="#EED480" />
-                <circle r="61.3219" transform="matrix(-1 0 0 1 148.609 467.481)" stroke="#EED480"
-                  stroke-width="14.3173" />
-                <path
-                  d="M119.781 450.43C119.781 448.766 121.13 447.416 122.795 447.416H173.879C175.544 447.416 176.893 448.766 176.893 450.43V452.963V483.435C176.893 485.1 175.544 486.449 173.879 486.449H122.795C121.13 486.449 119.781 485.1 119.781 483.435V452.963V450.43Z"
-                  stroke="#EED480" stroke-width="1.50708" />
-                <circle cx="123.413" cy="449.949" r="1.26676" stroke="#EED480" stroke-width="0.753541" />
-                <circle cx="127.245" cy="449.949" r="1.26676" stroke="#EED480" stroke-width="0.753541" />
-                <circle cx="131.081" cy="449.949" r="1.26676" stroke="#EED480" stroke-width="0.753541" />
-                <circle cx="130.53" cy="475.15" r="3.08137" stroke="#EED480" stroke-width="1.50708" />
-                <circle cx="142.581" cy="463.646" r="3.08137" stroke="#EED480" stroke-width="1.50708" />
-                <circle cx="154.089" cy="475.15" r="3.08137" stroke="#EED480" stroke-width="1.50708" />
-                <circle cx="166.14" cy="463.646" r="3.08137" stroke="#EED480" stroke-width="1.50708" />
-                <path d="M139.568 464.741L131.898 472.411" stroke="#EED480" stroke-width="1.50708"
-                  stroke-linejoin="round" />
-                <path d="M162.853 464.741L155.184 472.411" stroke="#EED480" stroke-width="1.50708"
-                  stroke-linejoin="round" />
-                <path d="M145.596 464.741L152.992 472.137" stroke="#EED480" stroke-width="1.50708"
-                  stroke-linejoin="round" />
-                <path d="M141.486 466.385L133.816 474.055" stroke="#EED480" stroke-width="1.50708"
-                  stroke-linejoin="round" />
-                <path d="M164.771 466.385L157.102 474.055" stroke="#EED480" stroke-width="1.50708"
-                  stroke-linejoin="round" />
-                <path d="M143.678 466.385L151.348 474.055" stroke="#EED480" stroke-width="1.50708"
-                  stroke-linejoin="round" />
+                <rect x="165.84" y="214.002" width="33.9664" height="10.409" rx="5.20452" fill="#121212"/>
+                <rect x="159.266" y="243.038" width="20.2702" height="10.409" rx="5.20452" fill="#121212"/>
+                <rect x="186.109" y="243.038" width="20.2702" height="10.409" rx="5.20452" fill="#121212"/>
+                <circle cx="104.481" cy="219.481" r="61.3219" stroke="#121212" stroke-width="14.3173"/>
+                <path d="M90.7852 207.406H118.177V229.318H90.7852V207.406Z" fill="white"/>
+                <path d="M92.9688 212.352H97.3515V218.424H92.9688V212.352Z" fill="white"/>
+                <path d="M115.672 227.098H102.234V212.633H115.672V220.287V227.098Z" fill="white"/>
+                <path d="M91.3609 210.065H117.695M99.6837 228.971V210.065M90.7812 207.406H118.173V229.318H90.7812V207.406Z" stroke="#121212" stroke-width="1.50708" stroke-miterlimit="10" stroke-linecap="round" stroke-linejoin="round"/>
+                <path d="M92.9141 222.099H95.707M92.9141 224.291H97.4656M92.9141 226.482H95.707M102.232 227.098L115.67 212.632M102.232 212.632L115.67 227.098M92.9639 212.352H97.3467V218.424H92.9639V212.352ZM115.67 227.098H102.232V212.632H115.67V220.287V227.098Z" stroke="#121212" stroke-width="1.50708" stroke-miterlimit="10" stroke-linecap="round" stroke-linejoin="round"/>
+                <rect x="79.484" y="203.799" width="49.9903" height="29.7201" rx="3.01416" stroke="#121212" stroke-width="1.50708"/>
+                <path d="M112.695 233.725L131.694 233.725C132.365 233.725 132.701 234.536 132.227 235.011L127.433 239.804C127.292 239.945 127.1 240.025 126.901 240.025H82.0537C81.8539 240.025 81.6622 239.945 81.5209 239.804L76.7278 235.011C76.2531 234.536 76.5893 233.725 77.2606 233.725L95.9856 233.725M112.695 233.725L110.45 235.969C110.309 236.11 110.117 236.19 109.917 236.19H98.763C98.5632 236.19 98.3715 236.11 98.2302 235.969L95.9856 233.725M112.695 233.725L95.9856 233.725" stroke="#121212" stroke-width="1.50708" stroke-linejoin="round"/>
               </g>
 
               <g class="bh-box2">
-                <rect x="313.922" y="329.255" width="29.9646" height="10.6723" rx="5.33617" fill="#FDBCA7" />
-                <rect x="305.301" y="300.522" width="18.4714" height="10.2619" rx="5.13093" fill="#FDBCA7" />
-                <rect x="333.434" y="300.419" width="20.2702" height="10.409" rx="5.20452" fill="#FDBCA7" />
-                <rect x="151" y="315.21" width="39.9927" height="10.409" rx="5.20452" fill="#FDBCA7" />
-                <rect x="159.219" y="344.246" width="29.5836" height="10.409" rx="5.20452" fill="#FDBCA7" />
-                <circle cx="250.707" cy="335.481" r="61.3219" stroke="#FDBCA7" stroke-width="14.3173" />
-                <path
-                  d="M233.115 312.129H275.434C277.098 312.129 278.448 313.478 278.448 315.143V316.994V339.315V343.765C278.448 345.43 277.098 346.78 275.434 346.78H233.115C231.451 346.78 230.101 345.43 230.101 343.765V339.315V316.994V315.143C230.101 313.478 231.451 312.129 233.115 312.129Z"
-                  stroke="#FDBCA7" stroke-width="1.50708" />
-                <circle cx="254.546" cy="343.15" r="3.08137" stroke="#FDBCA7" stroke-width="1.50708" />
-                <path d="M246.623 353.354L247.271 347.739H261.018L261.882 353.354H246.623Z" stroke="#FDBCA7"
-                  stroke-width="1.50708" />
-                <path d="M242.46 357.463L243.571 354.313H265.295L266.778 357.463H242.46Z" stroke="#FDBCA7"
-                  stroke-width="1.50708" />
-                <path d="M222.77 357.942H271.254" stroke="#FDBCA7" stroke-width="1.50708" stroke-linejoin="round" />
-                <path d="M273.168 357.942L279.742 357.942" stroke="#FDBCA7" stroke-width="1.50708"
-                  stroke-linejoin="round" />
-                <rect x="222.255" y="331.68" width="15.2704" height="24.5838" rx="2.63739" fill="white" stroke="#FDBCA7"
-                  stroke-width="2.26062" />
+                <rect width="37.2534" height="10.409" rx="5.20452" transform="matrix(-1 0 0 1 87.25 447.21)" fill="#EED480"/>
+                <rect width="31.775" height="10.409" rx="5.20452" transform="matrix(-1 0 0 1 88.8945 476.246)" fill="#EED480"/>
+                <circle r="61.3219" transform="matrix(-1 0 0 1 148.609 467.481)" stroke="#EED480" stroke-width="14.3173"/>
+                <path d="M119.781 453.716H176.893V483.435C176.893 485.1 175.544 486.449 173.879 486.449H122.795C121.13 486.449 119.781 485.1 119.781 483.435V453.716ZM176.893 452.209H119.781V450.43C119.781 448.766 121.13 447.416 122.795 447.416H173.879C175.544 447.416 176.893 448.766 176.893 450.43V452.209Z" stroke="#EED480" stroke-width="1.50708"/>
+                <circle cx="123.413" cy="449.949" r="1.26676" stroke="#EED480" stroke-width="0.753541"/>
+                <circle cx="127.245" cy="449.949" r="1.26676" stroke="#EED480" stroke-width="0.753541"/>
+                <circle cx="131.081" cy="449.949" r="1.26676" stroke="#EED480" stroke-width="0.753541"/>
+                <circle cx="130.53" cy="475.15" r="3.08137" stroke="#EED480" stroke-width="1.50708"/>
+                <circle cx="142.581" cy="463.646" r="3.08137" stroke="#EED480" stroke-width="1.50708"/>
+                <circle cx="154.089" cy="475.15" r="3.08137" stroke="#EED480" stroke-width="1.50708"/>
+                <circle cx="166.14" cy="463.646" r="3.08137" stroke="#EED480" stroke-width="1.50708"/>
+                <path d="M139.568 464.741L131.898 472.411" stroke="#EED480" stroke-width="1.50708" stroke-linejoin="round"/>
+                <path d="M162.853 464.741L155.184 472.411" stroke="#EED480" stroke-width="1.50708" stroke-linejoin="round"/>
+                <path d="M145.596 464.741L152.992 472.137" stroke="#EED480" stroke-width="1.50708" stroke-linejoin="round"/>
+                <path d="M141.486 466.385L133.816 474.055" stroke="#EED480" stroke-width="1.50708" stroke-linejoin="round"/>
+                <path d="M164.771 466.385L157.102 474.055" stroke="#EED480" stroke-width="1.50708" stroke-linejoin="round"/>
+                <path d="M143.678 466.385L151.348 474.055" stroke="#EED480" stroke-width="1.50708" stroke-linejoin="round"/>
+              </g>
+              
+              <g class="bh-box3">
+                <rect x="313.922" y="329.255" width="29.9646" height="10.6723" rx="5.33617" fill="#FDBCA7"/>
+                <rect x="305.301" y="300.522" width="18.4714" height="10.2619" rx="5.13093" fill="#FDBCA7"/>
+                <rect x="333.434" y="300.419" width="20.2702" height="10.409" rx="5.20452" fill="#FDBCA7"/>
+                <rect x="151" y="315.21" width="39.9927" height="10.409" rx="5.20452" fill="#FDBCA7"/>
+                <rect x="159.219" y="344.246" width="29.5836" height="10.409" rx="5.20452" fill="#FDBCA7"/>
+                <circle cx="250.707" cy="335.481" r="61.3219" stroke="#FDBCA7" stroke-width="14.3173"/>
+                <path d="M278.448 338.562H230.101V316.994V315.143C230.101 313.478 231.451 312.129 233.115 312.129H275.434C277.098 312.129 278.448 313.478 278.448 315.143V316.994V338.562ZM278.448 340.069V343.765C278.448 345.43 277.098 346.78 275.434 346.78H233.115C231.451 346.78 230.101 345.43 230.101 343.765V340.069H278.448Z" stroke="#FDBCA7" stroke-width="1.50708"/>
+                <circle cx="254.546" cy="343.15" r="3.08137" stroke="#FDBCA7" stroke-width="1.50708"/>
+                <path d="M246.623 353.354L247.271 347.739H261.018L261.882 353.354H246.623Z" stroke="#FDBCA7" stroke-width="1.50708"/>
+                <path d="M242.46 357.463L243.571 354.313H265.295L266.778 357.463H242.46Z" stroke="#FDBCA7" stroke-width="1.50708"/>
+                <path d="M222.77 357.942H271.254" stroke="#FDBCA7" stroke-width="1.50708" stroke-linejoin="round"/>
+                <path d="M273.168 357.942L279.742 357.942" stroke="#FDBCA7" stroke-width="1.50708" stroke-linejoin="round"/>
+                <rect x="222.255" y="331.68" width="15.2704" height="24.5838" rx="2.63739" fill="white" stroke="#FDBCA7" stroke-width="2.26062"/>
               </g>
             </svg>
 
